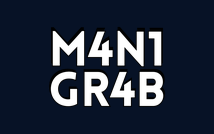
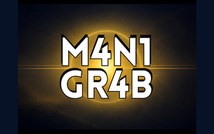
feat: marcar favoritos desde la TV, iconos y splash desde el diseno real, y Crecimiento deja de ser un cajon de sastre
Favoritos desde el canal

roku-favoritos era GET: el canal solo leia la lista y habia que ir al
celular a marcar y volver a la television, que es justo lo que rompe el
flujo cuando estas armando una combinacion. Ahora acepta POST.

Va como destino mas en el dialogo de guardar, no como tecla aparte:
favoritos tambien es una lista, asi se descubre solo en vez de esconderse
en un boton que nadie adivina, y permite marcar varias de una vez.

Ojo con la llave: usuario_favoritos.codigo_id referencia
codigos_grabovoi.CODIGO (texto), no el id. Por eso la pantalla manda el
subtitle de la tarjeta (el codigo) y no el uuid.

Verificado en produccion: marcar 2 devuelve agregados=2, repetirlas
devuelve agregados=0 sin error, y la lista pasa de 31 a 33.

Iconos y splash

Las cinco imagenes que quedaban provisionales se generan ahora desde
icon_focus_hd.png, que es el diseno aprobado, en vez de tener cada una su
propio origen.

Los splash van a sangre y no encajados: el icono trae su propio fondo
oscuro, asi que centrarlo sobre el navy dejaba un rectangulo pegado con
el borde a la vista. Ademas se recortan antes las franjas navy laterales
del icono (28px a cada lado, de cuando se compuso un diseno de 280 sobre
un lienzo de 336), que al escalar a sangre se convertian en dos barras
verticales.

Falta login_bg.jpg, que sigue siendo un degradado provisional.

Recategorizacion

Crecimiento era un cajon de sastre: de sus 40 secuencias, 25 no eran de
[…]

diff --git a/alexa-vercel/api/roku-favoritos.js b/alexa-vercel/api/roku-favoritos.js
@@ -20,16 +20,86 @@ async function resolverUsuario(admin, authHeader) {
   return link.user_id;
 }
 
-async function handler(req, res) {
-  if (req.method !== 'GET') {
-    res.status(405).json({ error: 'method_not_allowed' });
+function readJsonBody(req) {
+  return new Promise((resolve, reject) => {
+    let data = '';
+    req.on('data', (chunk) => { data += chunk; });
+    req.on('end', () => {
+      try {
+        resolve(data ? JSON.parse(data) : {});
+      } catch (e) {
+        reject(e);
+      }
+    });
+    req.on('error', reject);
+  });
+}
+
+// Marcar favoritos desde la TV. Hasta ahora el canal solo LEÍA la lista:
+// había que ir al celular a marcar y volver a la televisión, que es justo
+// lo que rompe el flujo cuando estás armando una combinación.
+//
+// Ojo con la llave: usuario_favoritos.codigo_id referencia
+// codigos_grabovoi.CODIGO (texto), no el id. Mandar el uuid aquí falla
+// con un error de tipo.
+async function agregarFavoritos(req, res, admin, userId, body) {
+  const codigos = Array.isArray(body.codigos)
+    ? body.codigos.map(String).filter(Boolean).slice(0, 30)
+    : [];
+  if (!codigos.length) {
+    res.status(400).json({ error: 'empty' });
     return;
   }
 
+  const { data: existentes } = await admin
+    .from('usuario_favoritos')
+    .select('codigo_id')
+    .eq('user_id', userId)
+    .in('codigo_id', codigos);
+
+  const yaEstan = new Set((existentes || []).map((f) => f.codigo_id));
+  const nuevos = codigos.filter((c) => !yaEstan.has(c));
+
+  if (!nuevos.length) {
+    res.status(200).json({ agregados: 0, ya_estaban: codigos.length });
+    return;
+  }
+
+  const { error } = await admin
+    .from('usuario_favoritos')
+    .insert(nuevos.map((codigo) => ({ user_id: userId, codigo_id: codigo })));
+
+  if (error) {
+    console.error('roku-favoritos: insertar falló', error);
+    res.status(500).json({ error: 'server_error' });
+    return;
+  }
+
+  res.status(200).json({ agregados: nuevos.length, ya_estaban: codigos.length - nuevos.length });
+}
+
+async function handler(req, res) {
   const admin = createClient(process.env.SUPABASE_URL, process.env.SUPABASE_SERVICE_ROLE_KEY);
   const userId = await resolverUsuario(admin, req.headers.authorization);
   if (!userId) {
     res.status(401).json({ error: 'invalid_session' });
+    return;
+  }
+
+  if (req.method === 'POST') {
+    let body;
+    try {
+      body = await readJsonBody(req);
+    } catch (_e) {
+      res.status(400).json({ error: 'invalid_json' });
+      return;
+    }
+    await agregarFavoritos(req, res, admin, userId, body);
+    return;
+  }
+
+  if (req.method !== 'GET') {
+    res.status(405).json({ error: 'method_not_allowed' });
     return;
   }
 
